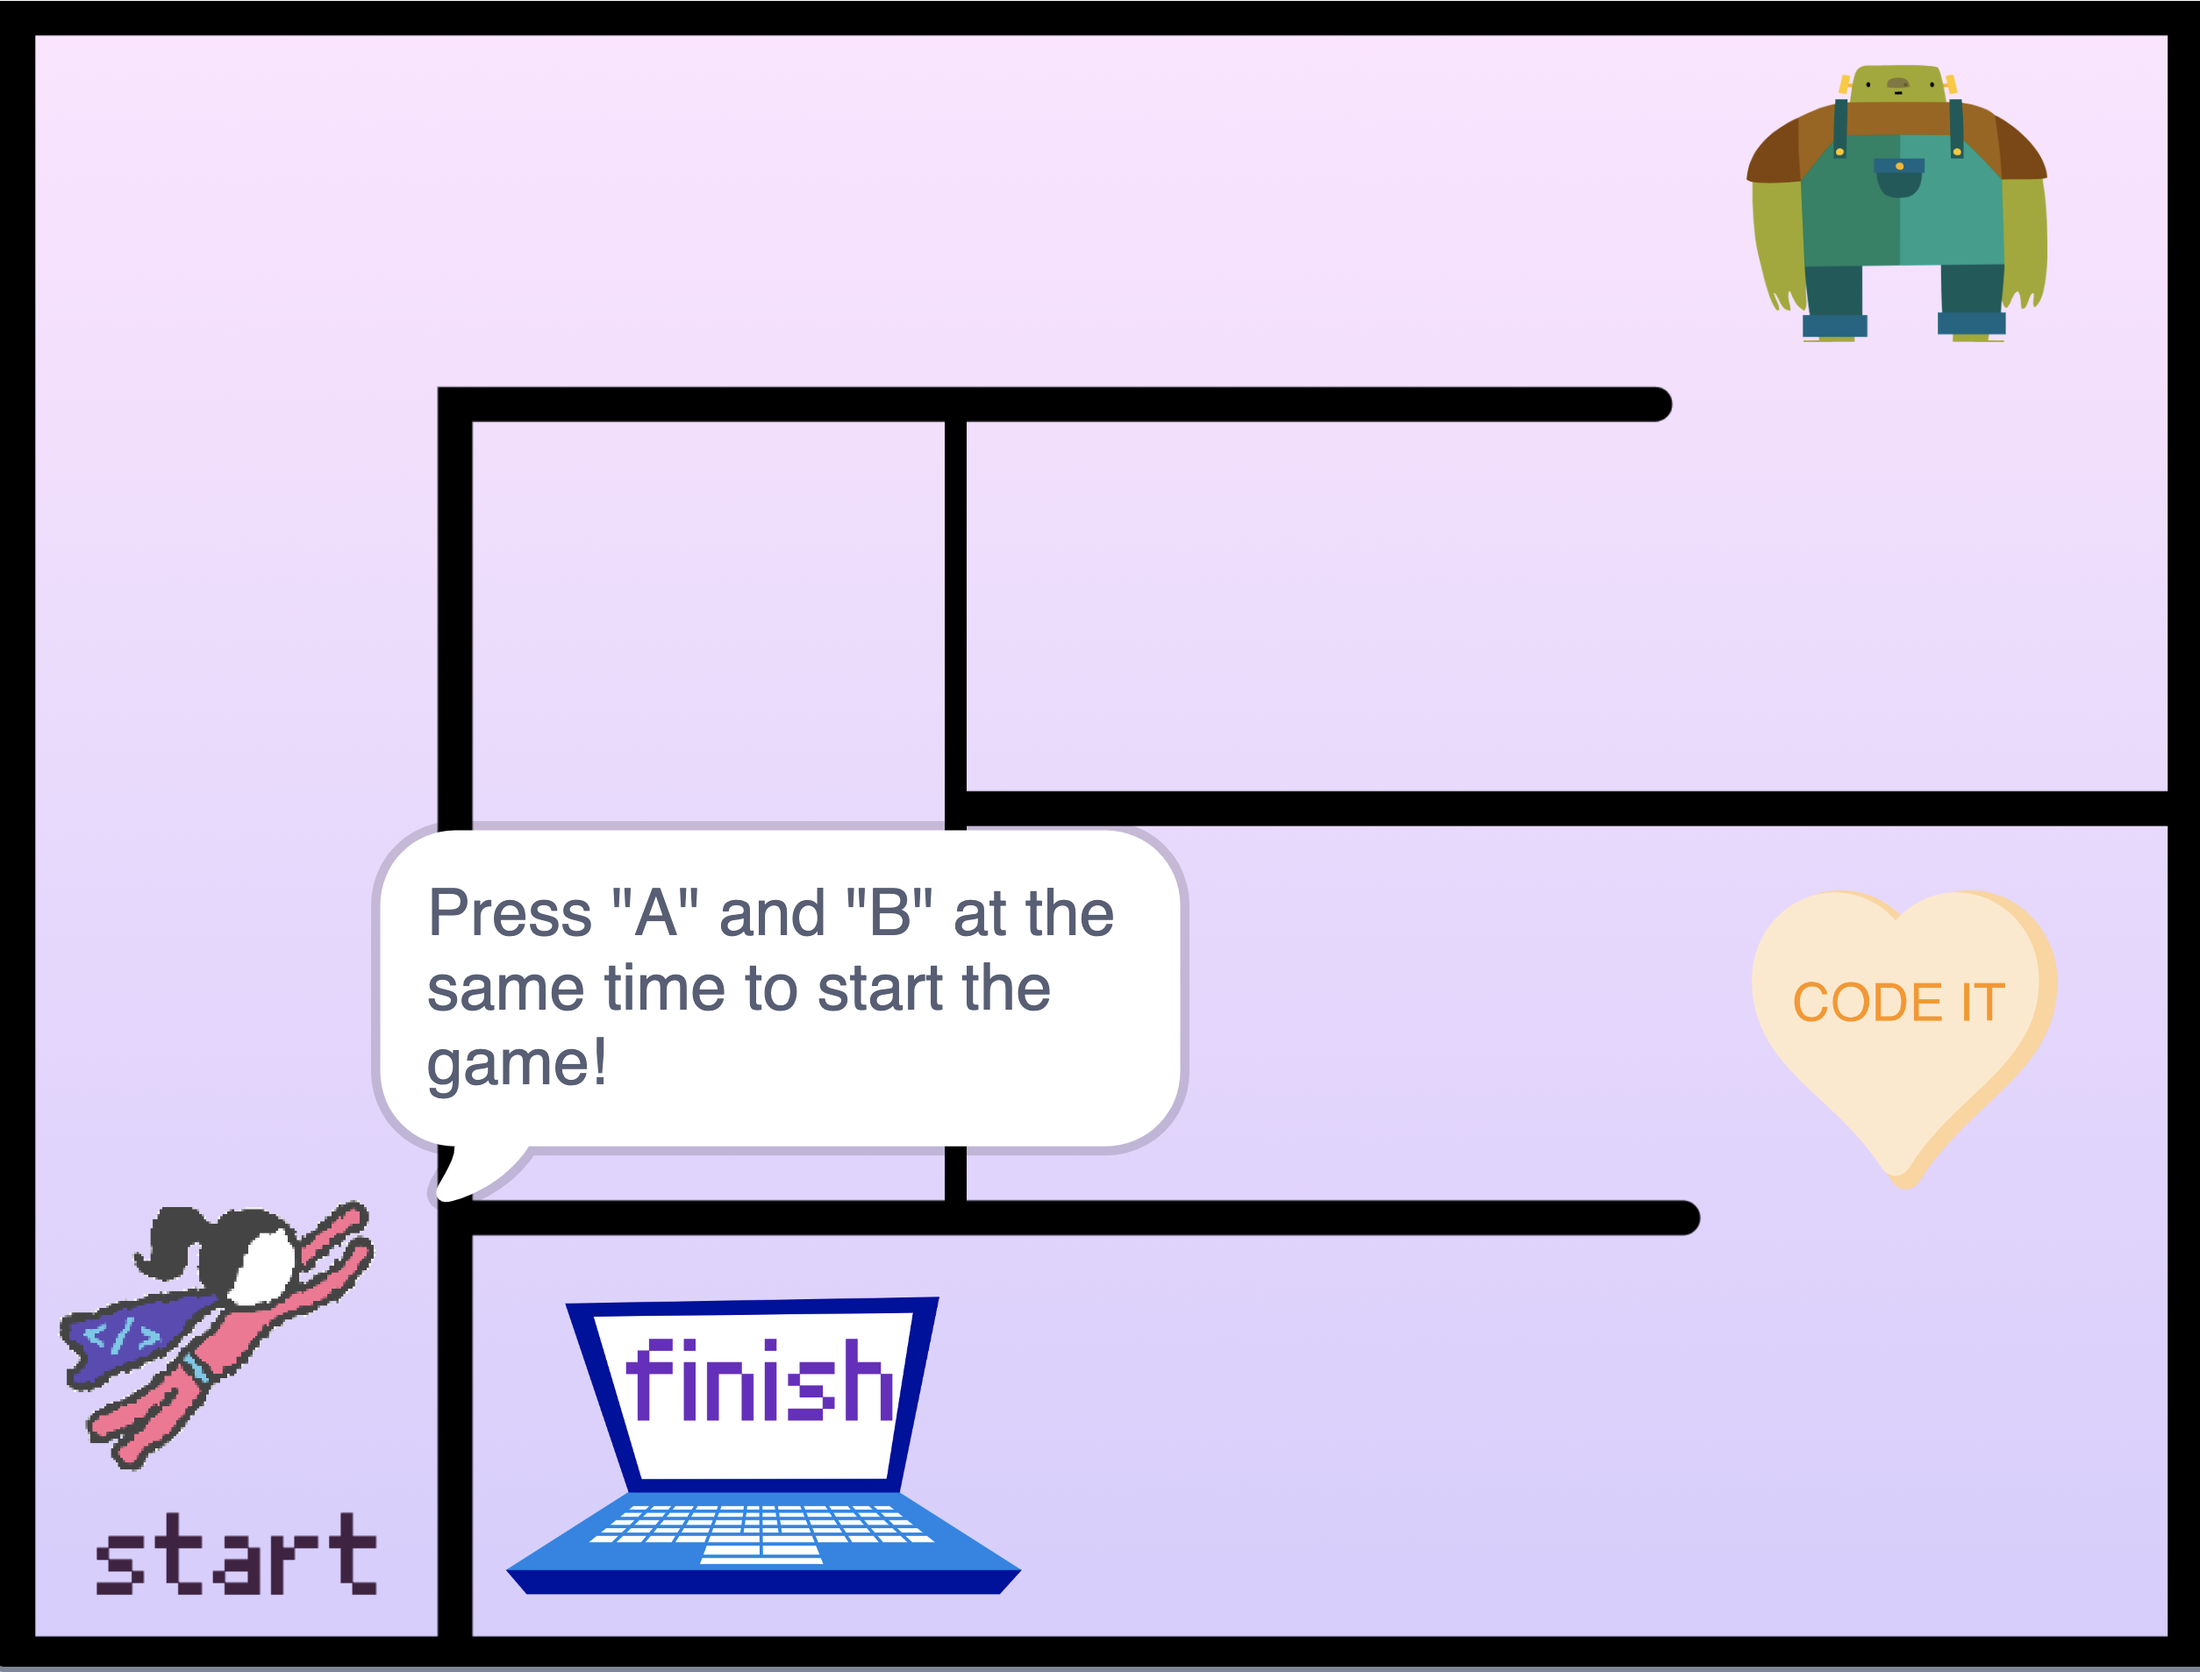
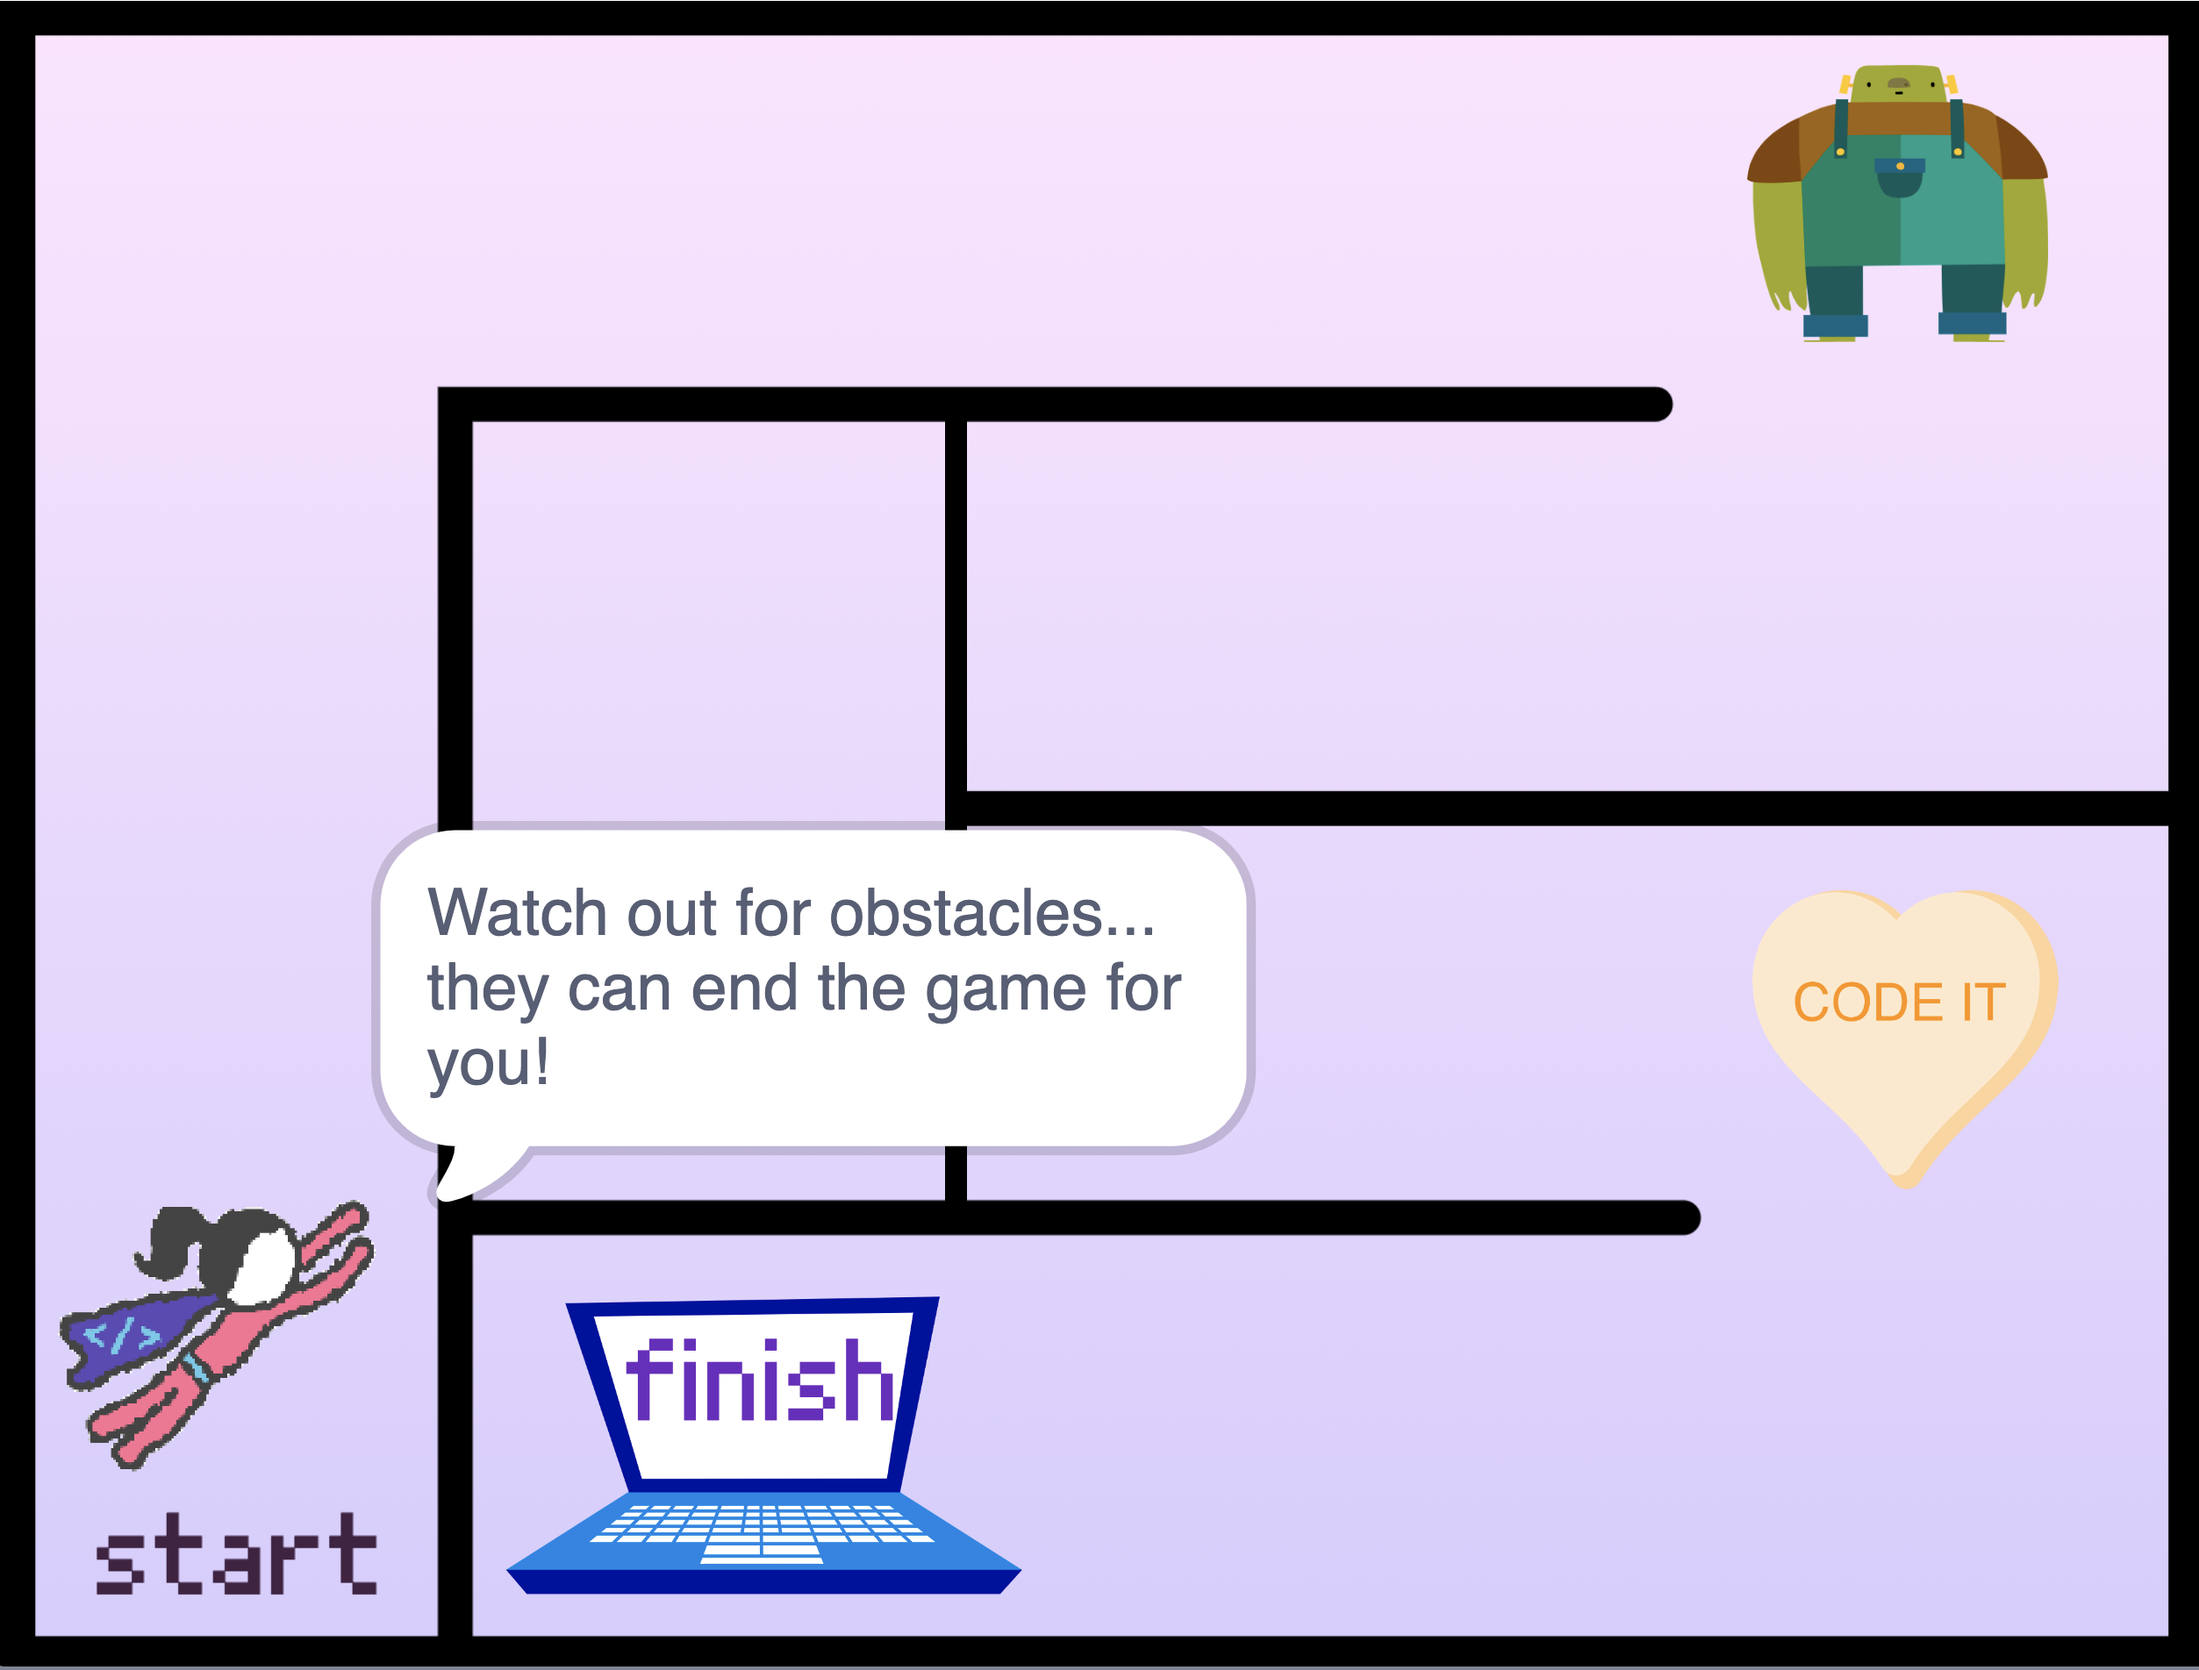
add instructions picture

diff --git a/scratch/microbits/advanced-maze-game/index.html b/scratch/microbits/advanced-maze-game/index.html
@@ -23,12 +23,12 @@
   <google-codelab title="CodeIt Advanced Maze" feedback-link="https://goo.gl/forms/9zDi1V3arg167lIY2">
 
       <google-codelab-step label="Overview">
-        <p>In this codelab, you&#39;ll make a maze game.</p>
-        <img src="img/title_photo.png">
+        <p>In this codelab, you&#39;ll make a maze game. The end product will look something like this:</p>
+        <iframe src="https://scratch.mit.edu/projects/552391317/embed" allowtransparency="true" width="485" height="402" frameborder="0" scrolling="no" allowfullscreen></iframe>
         <h3 class="checklist">What you&#39;ll learn</h3>
         <ul class="checklist">
           <li>Quick review of Scratch.</li>
-            <li>How to incorporate micro:bits into a Scratch game!</li>
+          <li>How to incorporate micro:bits into a Scratch game!</li>
         </ul>
 
       </google-codelab-step>
@@ -121,6 +121,7 @@
         <p>Also make sure you mention how to play the game! Here are sample instructions:</p>
         <img src="img/instructions_1.png">
         <img src="img/instructions_2.png">
+        <img src="img/instructions_3.png">
         <img src="img/instructions_3.png">
         <p><b>Challenge:</b> Try to change the instructions using a Block made from MyBlock. The instructions above were made with a Block called "instructions", which took a variable called "step" to decide which text block to display. If you don't know how to use MyBlocks, ask your mentor for help!</p>
 
